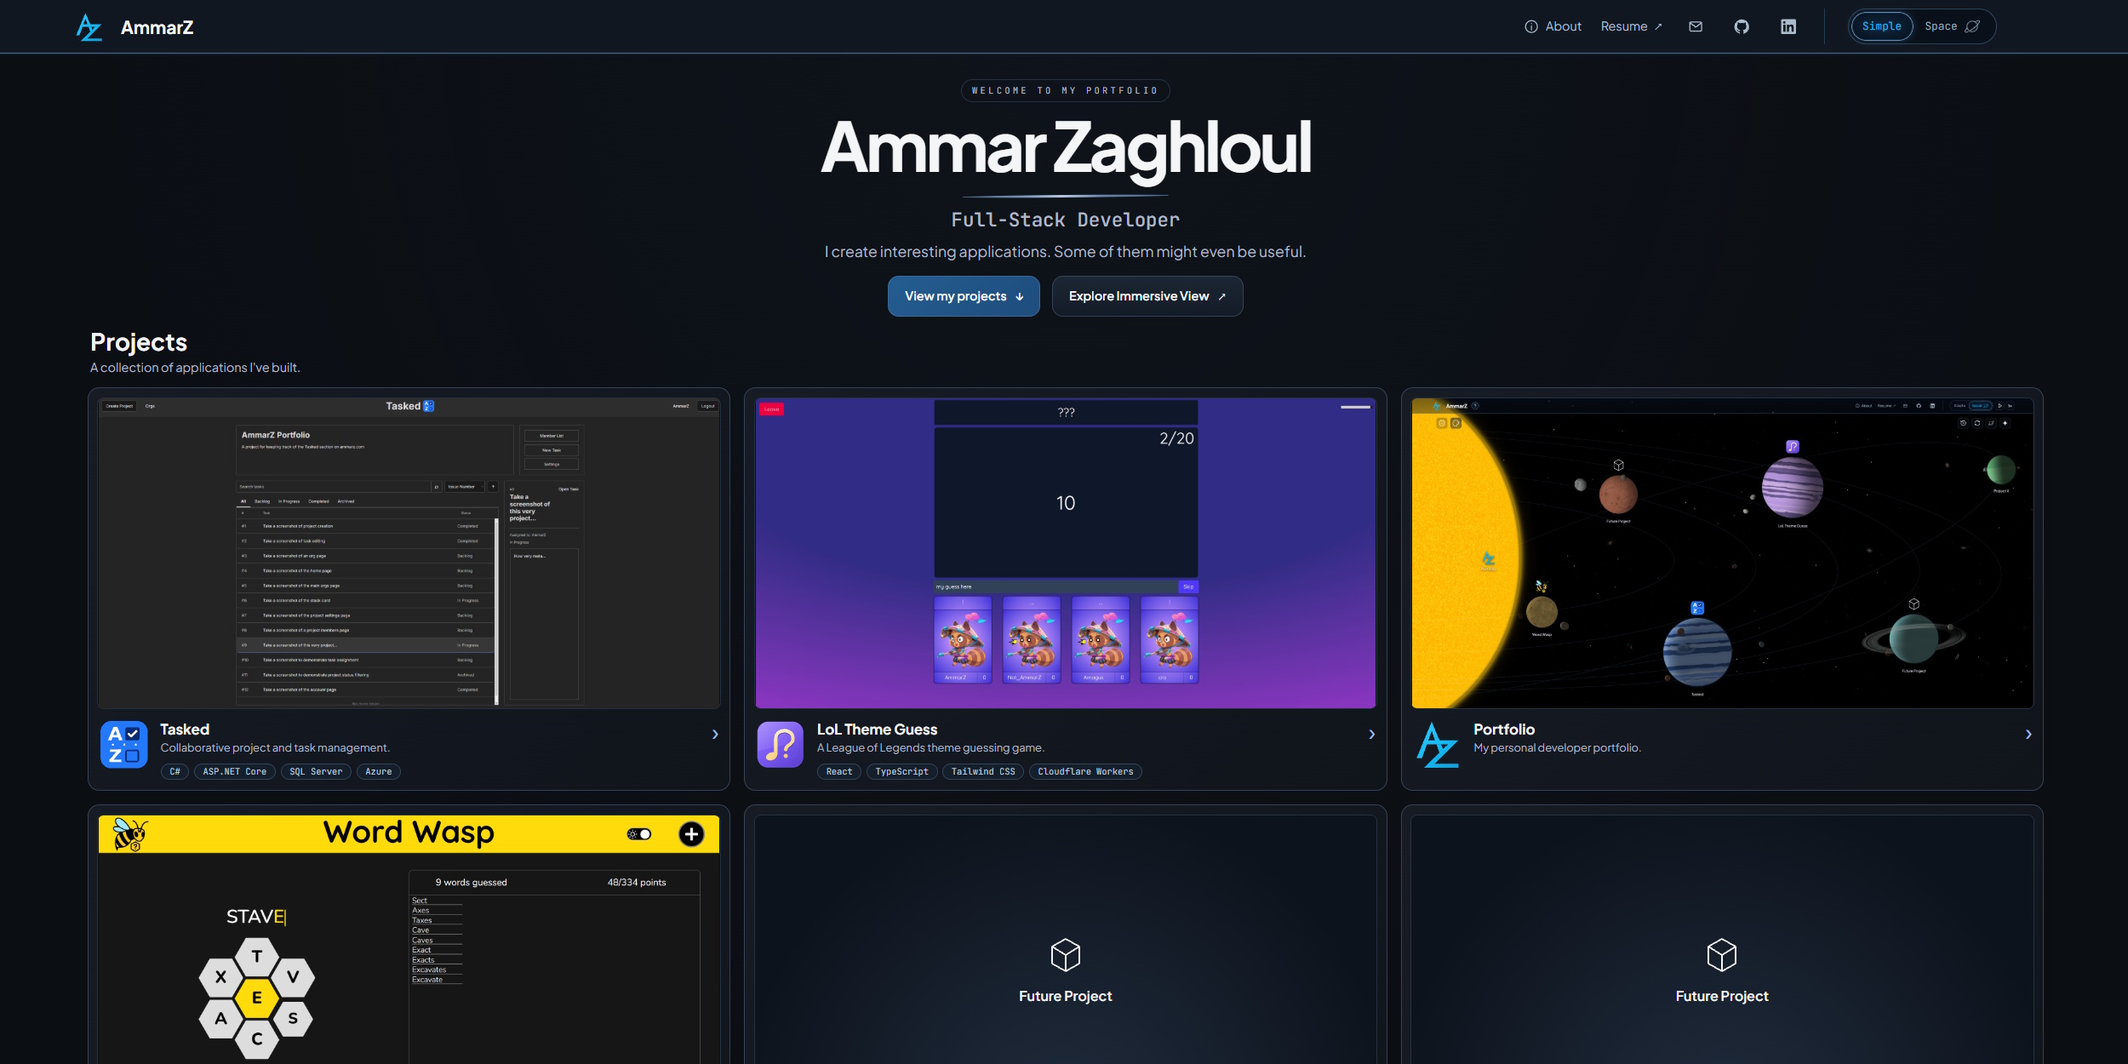
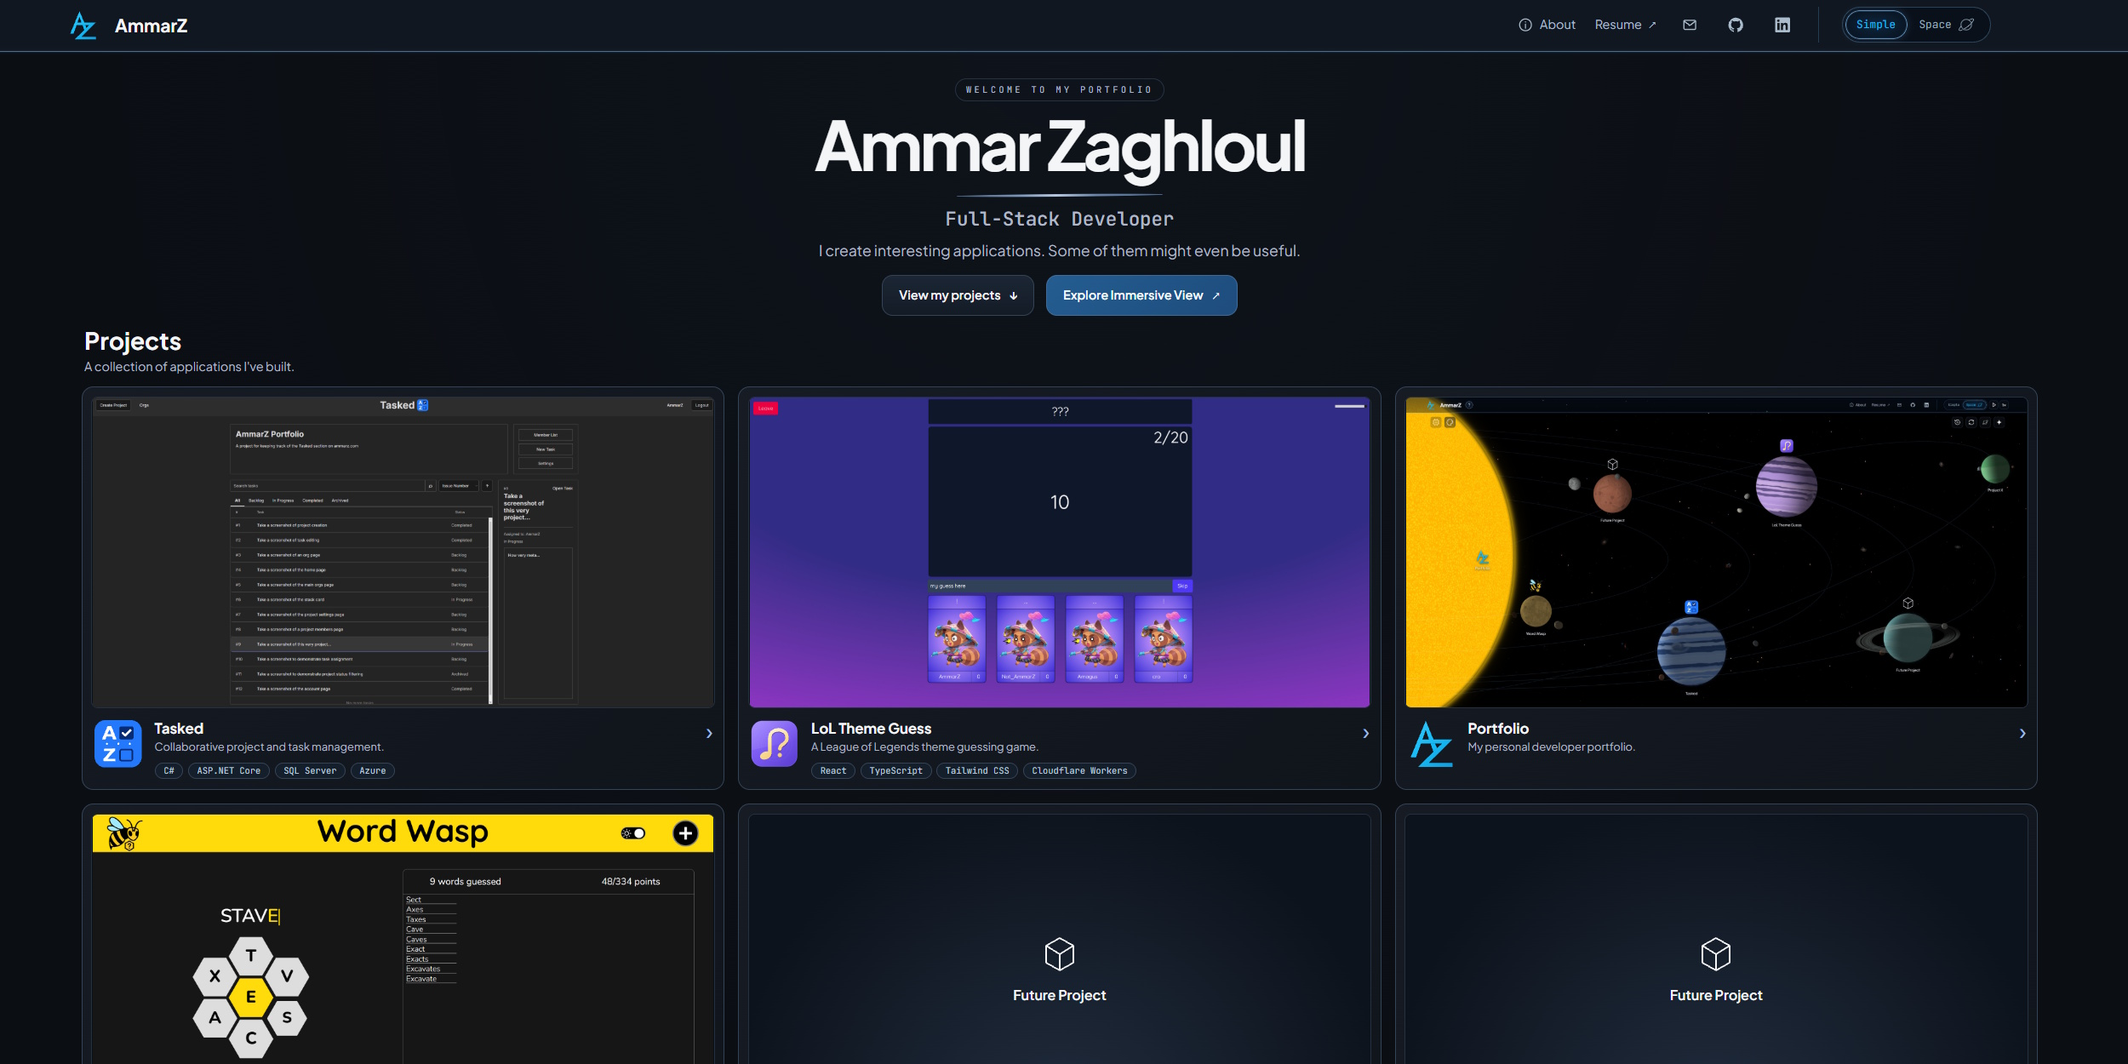
Complete portfolio entry and minor css touches

diff --git a/src/react-app/components/space/SpaceHelp.tsx b/src/react-app/components/space/SpaceHelp.tsx
@@ -14,8 +14,7 @@ export default function SpaceGuidance({ request, introDismissed, onDismiss }: {
 }
 
 function SpaceIntro({ onDismiss }: { onDismiss: () => void }) {
-    const arrowId = useId();
-    const [position, setPosition] = useState({ helpX: 0, helpBottom: 0, helpLeft: 16, helpWidth: 145, projectsLeft: 0, projectsWidth: 220, top: 100, arrowX: 8, arrowY: 100, mobile: false });
+    const [position, setPosition] = useState({ helpX: 0, helpY: 0, helpLeft: 16, helpWidth: 145, projectsLeft: 0, projectsWidth: 220, top: 100, arrowX: 8, arrowY: 100, mobile: false });
     const [touchPointer] = useState(() => matchMedia("(pointer: coarse)").matches);
     useEffect(() => {
         // Dismiss without consuming the interaction: the first tap can open a project or Help.
@@ -45,14 +44,18 @@ function SpaceIntro({ onDismiss }: { onDismiss: () => void }) {
             const row = controls?.getBoundingClientRect();
             if (!r || !row) return;
             const helpX = r.left + r.width / 2;
-            const helpBottom = r.top + r.height / 2 + 15;
+            const helpY = r.top + r.height / 2;
             const mobile = innerWidth < 960;
             const starfield = document.querySelector(".space-starfield-reroll")?.getBoundingClientRect();
             const palette = document.querySelector(".space-palette-button")?.getBoundingClientRect();
             const reset = document.querySelector(".space-orbit-reset")?.getBoundingClientRect();
             let top = row.top + row.height / 2;
-            let helpLeft = helpX + 35, helpWidth = 145;
-            let projectsLeft = innerWidth / 2, projectsWidth = 240;
+            let helpLeft = helpX + 35, helpWidth = Math.min(260, innerWidth * 0.18);
+            const projectsStart = helpLeft + helpWidth + 28;
+            const projectsEnd = (reset?.left ?? row.right) - 20;
+            let projectsWidth = Math.min(440, projectsEnd - projectsStart);
+            let projectsLeft = Math.max(projectsStart + projectsWidth / 2,
+                Math.min(innerWidth / 2, projectsEnd - projectsWidth / 2));
             let arrowX = helpLeft - 8, arrowY = top;
             if (mobile && starfield && palette && reset) {
                 const leftGap = starfield.left - palette.right, rightGap = reset.left - starfield.right;
@@ -70,7 +73,7 @@ function SpaceIntro({ onDismiss }: { onDismiss: () => void }) {
                 arrowY = Math.min(top - 18, row.top - 4);
                 if (top > row.bottom) arrowY = top - 18;
             }
-            const next = { helpX, helpBottom, helpLeft, helpWidth, projectsLeft, projectsWidth, top, arrowX, arrowY, mobile };
+            const next = { helpX, helpY, helpLeft, helpWidth, projectsLeft, projectsWidth, top, arrowX, arrowY, mobile };
             setPosition(previous => Object.keys(next).every(key => previous[key as keyof typeof next] === next[key as keyof typeof next]) ? previous : next);
         };
         update();
@@ -80,12 +83,18 @@ function SpaceIntro({ onDismiss }: { onDismiss: () => void }) {
         window.addEventListener("resize", update);
         return () => { observer.disconnect(); window.removeEventListener("resize", update); };
     }, []);
+    // Aim at the circle's center, stopping just outside its edge. Construct the
+    // arrowhead from the same direction so it stays aligned on either layout.
+    const length = Math.max(1, Math.hypot(position.helpX - position.arrowX, position.helpY - position.arrowY));
+    const dx = (position.helpX - position.arrowX) / length, dy = (position.helpY - position.arrowY) / length;
+    const tipX = position.helpX - dx * 21, tipY = position.helpY - dy * 21;
+    const head = `${tipX - dx * 7 - dy * 3.5},${tipY - dy * 7 + dx * 3.5} ${tipX},${tipY} ${tipX - dx * 7 + dy * 3.5},${tipY - dy * 7 - dx * 3.5}`;
     return <div className="space-intro" role="status" data-mobile={position.mobile || undefined}>
         <button type="button" className="space-intro-projects" onClick={onDismiss} style={{ left: position.projectsLeft, top: position.top, width: position.projectsWidth }}>{touchPointer || position.mobile ? "Tap" : "Click"} a project to learn more</button>
         <button type="button" className="space-intro-help" onClick={onDismiss} style={{ left: position.helpLeft, top: position.top, width: position.helpWidth }}>Detailed controls</button>
         <svg className="space-intro-arrow" aria-hidden="true">
-            <defs><marker id={arrowId} markerUnits="userSpaceOnUse" markerWidth="9" markerHeight="9" refX="7" refY="4.5" orient="auto"><path d="m1 1 6 3.5-6 3.5" /></marker></defs>
-            <line x1={position.arrowX} y1={position.arrowY} x2={position.helpX} y2={position.helpBottom + 5} markerEnd={`url(#${arrowId})`} />
+            <line x1={position.arrowX} y1={position.arrowY} x2={tipX} y2={tipY} />
+            <polyline points={head} />
         </svg>
     </div>;
 }
@@ -106,21 +115,21 @@ function SpaceHelp({ onDismiss }: { onDismiss: () => void }) {
     const [index, setIndex] = useState(0);
     const [placement, setPlacement] = useState({ left: 16, top: 80, x: 0, y: 0, width: 0, height: 0, below: true, pointerLeft: 20 });
     const steps = useMemo<Step[]>(() => [
-        { title: "Explore the projects", text: `${desktop ? "Click" : "Tap"} a planet or the sun to read about a project. You can also use the arrow keys to select one and Enter to open it. Project X has no details yet.`,
+        { title: "Explore the projects", text: `${desktop ? "Click" : "Tap"} a planet or the sun to read about a project. ${desktop ? "You can also navigate planets using arrow keys and use Enter to view details." : ""}  Project X has not been discovered yet.`,
             target: ".space-body-button:not([data-space-body='portfolio']) .space-body-sphere, .space-body-star .space-body-logo" },
-        { title: "Choose your view", text: desktop ? "Switch between the project list in Simple Mode and this interactive Space Mode. Your scene settings stay with you."
-            : "Open this menu to switch between Simple and Space Mode, or find the About and contact links.", target: desktop ? ".header-nav .mode-selector" : ".mobile-menu-toggle" },
+        { title: "Switch views", text: desktop ? "Switch between the simpler layout and this interactive Space scene. Any changes you make to the scene will persist."
+            : "Open this menu to switch between the simpler layout and this interactive space scene, or find the About and contact links.", target: desktop ? ".header-nav .mode-selector" : ".mobile-menu-toggle" },
         { title: "Pause the scene", text: "Pause or resume the scene's motion. You can still select projects while it is paused. Motion stays off when your device requests reduced motion.",
             target: desktop ? ".header-nav .scene-motion" : ".header-mobile-motion .scene-motion" },
-        { title: "Orbital speed", text: "Cycle through 1×, 2× and 4× orbital speed. This changes how quickly planets travel, without speeding up their surfaces or the sun. Each visit starts at 1×.",
+        { title: "Orbital speed", text: "Cycle through 1×, 2× and 4× orbital speed. This changes how quickly planets travel, without speeding up their surfaces or the sun.",
             target: desktop ? ".header-nav .scene-speed" : ".header-mobile-motion .scene-speed" },
-        { title: "Solar performance", text: "Freeze the sun's animated surface to reduce CPU use. Other scene motion can continue. This control is unavailable while scene motion is paused or reduced motion is enabled.", target: ".space-performance" },
-        { title: "Star color", text: "Choose a color for the sun. The palette changes its surface and glow without changing the planets.", target: ".space-palette-button" },
-        { title: "Reset the orbits", text: "Return the planets to their starting positions. Their appearance and your other settings stay the same.", target: ".space-orbit-reset" },
-        { title: "New planetary surfaces", text: "Generate new planet textures and, on desktop, new moon and ring systems. The planet colors and project identities stay familiar.", target: ".space-reroll" },
-        ...(desktop ? [{ title: "Moons and rings", text: "Show or hide planetary moons and rings together. These orbiters are only shown on desktop.", target: ".space-orbiters" }] : []),
-        { title: "A new starfield", text: "Reroll the background stars, clusters and deep-sky objects. Your planets and star color stay the same.", target: ".space-starfield-reroll" },
-        { title: "Background images", text: "See the objects in this scene, their photo credits and the full image collection. Enjoy exploring!", target: ".space-image-credits" },
+        { title: "Solar effects", text: "Freeze the sun's animated surface, which may spike CPU usage on desktop browsers with hardware acceleration turned off and older phones. Other scene motion is not affected. This is always off while scene motion is paused or reduced motion is enabled.", target: ".space-performance" },
+        { title: "Star color", text: "Choose a color for the sun. Sunspots will form as usual and no other part of the scene is affected.", target: ".space-palette-button" },
+        { title: "Reset the orbits", text: "Return the planets to their starting positions. Their appearance and other settings will remain unaffected.", target: ".space-orbit-reset" },
+        { title: "New planetary details", text: `Generate new planetary textures${desktop ? ", moons, and rings" : ""}. The colors and related project of each planet will not change.`, target: ".space-reroll" },
+        ...(desktop ? [{ title: "Moons and rings", text: "Show or hide planetary moons and rings together. These are only shown on desktop.", target: ".space-orbiters" }] : []),
+        { title: "A new starfield", text: "Reroll the starfield background with new stars, clusters and deep sky objects.", target: ".space-starfield-reroll" },
+        { title: "Background images", text: "See the deep sky objects in this scene, their photo credits, and the full image collection. Enjoy exploring!", target: ".space-image-credits" },
     ], [desktop]);
     const currentIndex = Math.min(index, steps.length - 1);
     const step = steps[currentIndex];

diff --git a/src/react-app/data/projects.ts b/src/react-app/data/projects.ts
@@ -71,20 +71,32 @@ export const projects: Project[] = [
         name: "Portfolio",
         featuredTechnologies: [],
         subdomain: "portfolio",
-        liveUrl: "https://ammarz.com",
+        liveUrl: "https://ammarz.com/#space",
         repositories: [{ label: "GitHub", url: "https://github.com/ammar-az/portfolio" }],
         summary: "My personal developer portfolio.",
-        description: `A home for my projects. 
-        Something a little more immersive is Here™.`,
+        description: `A place to showcase my projects. I wanted a distinctive page that reflected my interests, and being an amateur astronomer I quickly decided on a space theme, specifically a solar system.
+        As solar systems are not an ideal way of conveying information, I realized I had to provide an alternative, more informative display if I didn't want to cover the scene in text.
+        Instead of a landing page or explanation prompt, the site defaults to a simpler, more traditional portfolio featuring informative project cards with large previews.
+        \n\nWith the default layout immediately recognizable as a portfolio, the space scene I envisioned could be created with more freedom.
+        Space mode features an interactive, procedurally generated solar system. Planets orbit the star and have orbiters of their own. Celestial bodies darken as they face away from the sun and cast shadows.
+        Like the planets, the starfield background is procedurally generated, and it includes real photographs of deep sky objects. 
+        The star emulates the turbulence of stellar surfaces, with visible convection and the formation of starspots.
+        It's better seen than described, so check out space mode, preferably on desktop, after reading this.
+        \n\nA bit of a disclaimer, I used AI pretty extensively while developing space mode. I directed the visual design, controls, layout, procedural generation, and motion,
+        but without any background in graphics or animation I pretty much vibe-coded those aspects.`,
         logo: PortfolioLogo,
         images: [
             {src: "/projects/portfolio/portfolio.jpg", alt: "The portfolio's space mode, with planets representing projects" },
             {src: "/projects/portfolio/portfolio-simple.jpg", alt: "The portfolio's simple mode, with project cards on a dark layout" },
+            {src: "/projects/portfolio/portfolio-project-view.jpg", alt: "The portfolio's project information, with the space view visible in the background" },
             {src: "/projects/portfolio/portfolio-transit.jpg", alt: "A planet and its moons transiting the sun" },
             {src: "/projects/portfolio/portfolio-eclipse.jpg", alt: "A moon eclipsing its planet with a visible shadow on the surface" },
+            {src: "/projects/portfolio/portfolio-custom-star.jpg", alt: "A customized star with a starspot visible on its surface" },
+            {src: "/projects/portfolio/portfolio-mobile.jpg", alt: "The mobile version of the portfolio's space mode" },
+            {src: "/projects/portfolio/portfolio-orbiters.jpg", alt: "A gas giant with a ring system orbited by multiple moons" },
         ],
         stack: [
-            { category: "frontend", technologies: [tech.react, tech.typescript, tech.css, tech.vite] },
+            { category: "frontend", technologies: [tech.react, tech.typescript, tech.css, tech.vite, tech.webgl] },
             { category: "deployment", technologies: [tech.cloudflare] },
         ]
     },

diff --git a/index.html b/index.html
@@ -8,13 +8,13 @@
 		<link rel="stylesheet" href="https://fonts.googleapis.com/css2?family=JetBrains+Mono:wght@400;500&amp;family=Plus+Jakarta+Sans:wght@400;600;700&amp;display=swap" />
 		<meta name="viewport" content="width=device-width, initial-scale=1.0, viewport-fit=cover" />
 		<title>Ammar Zaghloul | Full-Stack Developer</title>
-		<meta name="description" content="Explore Ammar Zaghloul's software projects, from multiplayer games to full-stack applications, with live demos and source code." />
+		<meta name="description" content="Explore Ammar Zaghloul's software projects, from multiplayer games to full-stack applications, in an interactive solar system layout." />
 		<link rel="canonical" href="https://ammarz.com/" />
 
 		<meta property="og:type" content="website" />
 		<meta property="og:site_name" content="AmmarZ" />
 		<meta property="og:title" content="Ammar Zaghloul | Full-Stack Developer" />
-		<meta property="og:description" content="Explore Ammar Zaghloul's software projects, from multiplayer games to full-stack applications, with live demos and source code." />
+		<meta property="og:description" content="Explore Ammar Zaghloul's software projects, from multiplayer games to full-stack applications, in an interactive solar system layout." />
 		<meta property="og:url" content="https://ammarz.com/" />
 		<meta property="og:image" content="https://ammarz.com/projects/portfolio/portfolio.jpg" />
 		<meta property="og:image:type" content="image/jpeg" />
@@ -24,7 +24,7 @@
 
 		<meta name="twitter:card" content="summary_large_image" />
 		<meta name="twitter:title" content="Ammar Zaghloul | Full-Stack Developer" />
-		<meta name="twitter:description" content="Explore Ammar Zaghloul's software projects, from multiplayer games to full-stack applications, with live demos and source code." />
+		<meta name="twitter:description" content="Explore Ammar Zaghloul's software projects, from multiplayer games to full-stack applications, in an interactive solar system layout." />
 		<meta name="twitter:image" content="https://ammarz.com/projects/portfolio/portfolio.jpg" />
 		<meta name="twitter:image:alt" content="Ammar Zaghloul's portfolio with a solar system theme and a gallery of software projects represented by colorful planets." />
 	</head>

diff --git a/src/react-app/components/Simple.tsx b/src/react-app/components/Simple.tsx
@@ -37,9 +37,9 @@ export default function Simple({ onSpaceMode }: SimpleProps) {
                 <p className="intro-role">Full-Stack Developer</p>
                 <p className="intro-description">I create interesting applications. Some of them might even be useful.</p>
                 <div className="intro-actions">
-                    <a className="button button-primary" href="#projects">View my projects <span aria-hidden="true">↓</span></a>
+                    <a className="button" href="#projects">View my projects <span aria-hidden="true">↓</span></a>
                     {onSpaceMode ? (
-                        <button type="button" className="button" onClick={onSpaceMode}>Explore Immersive View <span aria-hidden="true">↗</span></button>
+                        <button type="button" className="button button-primary" onClick={onSpaceMode}>Explore Immersive View <span aria-hidden="true">↗</span></button>
                     ) : <span className="intro-space-note">Immersive View<span>Coming soon</span></span>}
                 </div>
             </section>

diff --git a/src/react-app/styles/space-help.css b/src/react-app/styles/space-help.css
@@ -1,4 +1,4 @@
-.space-intro { position: fixed; inset: 0; z-index: 11; pointer-events: none; color: #fff; font-size: 0.9rem; text-shadow: 0 1px 4px #000, 0 0 8px #000; }
+.space-intro { position: fixed; inset: 0; z-index: 11; pointer-events: none; color: #fff; font-size: clamp(1.1rem, 1.833vw, 1.65rem); text-shadow: 0 1px 4px #000, 0 0 8px #000; }
 .space-intro button { position: absolute; pointer-events: auto; border: 0; padding: 0; background: none; color: inherit; font: inherit; line-height: 1.5; text-shadow: inherit; cursor: pointer; }
 .space-intro-projects { transform: translate(-50%, -50%); text-align: center; }
 .space-intro-help { transform: translateY(-50%); text-align: left; }

diff --git a/src/react-app/data/technologies.ts b/src/react-app/data/technologies.ts
@@ -21,6 +21,7 @@ import TypeScriptLogo from "../assets/technologies/typescript.svg?react";
 import ViteLogo from "../assets/technologies/vite.svg?react";
 import AngularLogo from "../assets/technologies/angular.svg?react";
 import CppLogo from "../assets/technologies/cplusplus.svg?react";
+import WebGlLogo from "../assets/technologies/webgl.svg?react";
 
 export const technologies = {
     angular: {
@@ -106,5 +107,9 @@ export const technologies = {
     vite: {
         name: "Vite",
         logo: ViteLogo,
+    },
+    webgl: {
+        name: "WebGL",
+        logo: WebGlLogo,
     },
 } satisfies Record<string, Technology>;

diff --git a/src/react-app/styles/space-mode.css b/src/react-app/styles/space-mode.css
@@ -507,6 +507,7 @@
 }
 
 .space-scene:not(.space-scene-mobile) .space-body-label {
+    font-size: 1.1rem;
     text-shadow: 0 1px 2px #000, 0 0 3px #000d;
 }
 

diff --git a/README.md b/README.md
@@ -1,14 +1,15 @@
 # About
 
-It's just my personal portfolio, checking it out is a lot more interesting and informative than reading this.
+My personal portfolio, featuring an informative, sleek, and professional layout. If that doesn't seem much more interesting than going through a README, it also features an immersive, animated and even customizable layout that's definitely a lot more interesting than just reading this. 
 
 Visit the portfolio at [ammarz.com](https://ammarz.com)
 
-![Portfolio preview](public/projects/portfolio/portfolio.jpg)
+If you want to skip to the fun part go to [ammarz.com/#space](https://ammarz.com/#space)
 
 ## Features
 
-- A gallery with project cards and preview images
+- A simple layout consisting of a gallery with project cards and preview images
+- An interactive layout consisting of a procedurally generated solar system with planets corresponding to each project.
 - A detailed project view with a description, more example images, and the stack
 - Links to all my projects and my resume
 - Some hints about future projects...
@@ -16,3 +17,9 @@ Visit the portfolio at [ammarz.com](https://ammarz.com)
 ## Built with
 
 React, TypeScript, Vite, and Vanilla CSS. Hosted on Cloudflare.
+
+![Portfolio preview](public/projects/portfolio/portfolio.jpg)
+The solar system layout
+
+![Simple portfolio preview](public/projects/portfolio/portfolio-simple.jpg)
+The simple layout
